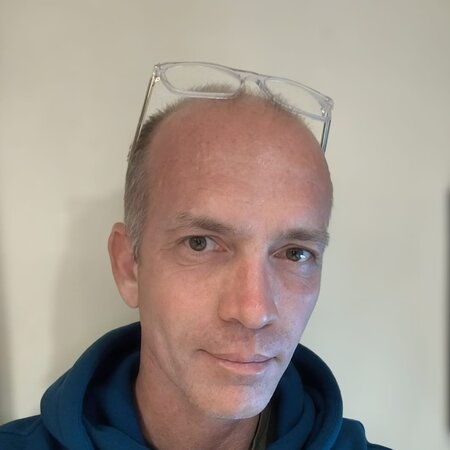
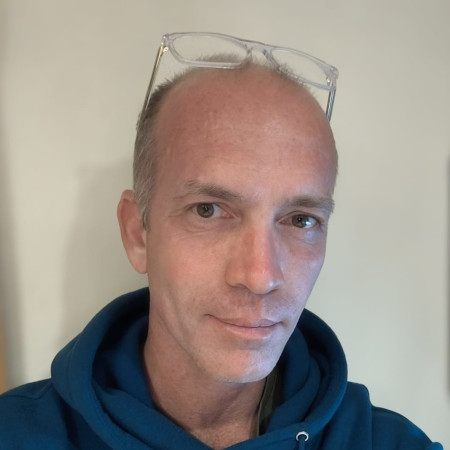
version

Changed region(s): [[0.0, 0.0622, 1.0, 1.0]]

diff --git a/docs/index.html b/docs/index.html
@@ -47,27 +47,31 @@
     <main>
       <section class="section">
         <h2 class="section__title">Profil</h2>
-        <p class="lead">Responsable IT et tech lead full-stack, près de 20 ans d'expérience en développement web.</p>
-        <p>Je pilote l'informatique d'une PME tout en restant très impliqué dans le développement&nbsp;: organisation de l'équipe, choix d'architecture, infrastructure et code. Mon rôle consiste à relier les enjeux métier, techniques et opérationnels, et à mener les sujets de la conception à la mise en production.</p>
-        <p>Formé au multimédia, j'ai évolué du développement web en ESN au lead technique chez Ricardo.ch, puis à la responsabilité de l'informatique chez Traveljuice, en élargissant mon périmètre à l'architecture, à l'infrastructure, à la dataviz et à l'IA. En parallèle, je mène des projets personnels&nbsp;: développement de plateformes web, génération procédurale, création d'entreprise.</p>
+        <p class="lead">Près de 20 ans de développement web, de la conception à la mise en production.</p>
+        <p>Formé au multimédia, j'ai évolué du développement en ESN au lead technique chez Ricardo.ch, puis à la responsabilité de l'informatique chez Traveljuice, en élargissant mon périmètre à l'architecture, à l'infrastructure, à la dataviz et à l'IA. J'y encadre l'équipe et en assure le leadership technique, tout en restant très impliqué dans le développement. Mon rôle consiste à relier les enjeux métier, techniques et opérationnels.</p>
+        <p>Généraliste avec une expertise front-end, je m'intéresse à tous les aspects du développement logiciel. En parallèle, je mène des projets personnels&nbsp;: développement de plateformes web, génération procédurale, création d'entreprise.</p>
       </section>
 
       <section class="section">
         <h2 class="section__title">Compétences</h2>
         <h3 class="subhead">Savoir-faire</h3>
         <dl class="skills">
-          <dt>Pilotage</dt><dd>Management d'équipe, gestion de projets, organisation agile (Scrum), coordination de freelances et prestataires</dd>
-          <dt>Architecture</dt><dd>Conception logicielle, choix techniques, migration et exploitation d'infrastructure</dd>
-          <dt>Web</dt><dd>Performance, SEO, tracking, conformité RGPD</dd>
+          <dt>Management</dt><dd>Management hiérarchique (recrutement, entretiens), gestion de projets, organisation agile (Scrum), coordination de freelances et prestataires</dd>
+          <dt>Leadership technique</dt><dd>Architecture logicielle, choix techniques, accompagnement technique de l'équipe</dd>
+          <dt>Exploitation</dt><dd>Pilotage de migration d'infrastructure, déploiement, CI/CD, monitoring</dd>
+          <dt>Web</dt><dd>Performance, SEO, conformité RGPD</dd>
           <dt>IA</dt><dd>Génération de code, gestion de l'infrastructure</dd>
         </dl>
         <h3 class="subhead">Technologies</h3>
+        <p class="skills__note">En gras&nbsp;: stack de mon poste actuel.</p>
         <dl class="skills">
-          <dt>Front-end</dt><dd>Angular · React · Next.js · Redux · TypeScript</dd>
-          <dt>Back-end</dt><dd>Node.js · NestJS · GraphQL · Python</dd>
-          <dt>Données</dt><dd>MySQL · PostgreSQL · BigQuery · Looker Studio · GTM · Google Analytics</dd>
-          <dt>Infra &amp; DevOps</dt><dd>Docker · Kubernetes · Docker Swarm · Scaleway · OVH · Cloudflare · Jenkins · CI/CD · monitoring</dd>
-          <dt>3D</dt><dd>Blender (API Python) · génération procédurale · impression 3D</dd>
+          <dt>Front-end (expertise)</dt><dd><strong>Angular</strong> · <strong>TypeScript</strong> · React · Redux · Next.js</dd>
+          <dt>Back-end &amp; API</dt><dd><strong>Node.js</strong> · <strong>NestJS</strong> · <strong>GraphQL</strong> · <strong>Python</strong></dd>
+          <dt>Bases de données</dt><dd><strong>MySQL</strong> · PostgreSQL</dd>
+          <dt>Data &amp; dataviz</dt><dd><strong>BigQuery</strong> · <strong>Looker Studio</strong></dd>
+          <dt>Analytics &amp; mesure d'audience</dt><dd><strong>Google Analytics</strong> · <strong>Google Tag Manager</strong></dd>
+          <dt>Infra &amp; DevOps</dt><dd><strong>Docker</strong> · <strong>Kubernetes</strong> · <strong>Scaleway</strong> · <strong>Jenkins</strong> · Cloudflare · Docker Swarm · OVH</dd>
+          <dt>3D</dt><dd>Blender (API Python) · impression 3D</dd>
           <dt>Historique</dt><dd>.NET C# MVC · SQL Server · Java (JSP, GWT) · PHP · AngularJS · jQuery · Flash</dd>
         </dl>
         <h3 class="subhead">Langues</h3>
@@ -84,11 +88,12 @@
             <p class="entry__date">Depuis 2018</p>
             <h3 class="entry__title">Responsable IT &amp; Tech lead <span class="entry__org">@ Traveljuice</span></h3>
             <ul class="points">
-              <li><strong>Pilotage</strong> — Direction d'une équipe de 5 personnes, gestion de projets, organisation des sprints et coordination des freelances et prestataires.</li>
-              <li><strong>Architecture</strong> — Mise en place d'une nouvelle architecture logicielle. En 2025, pilotage de la migration de 3 serveurs managés OVH sous Docker Swarm vers Kubernetes chez Scaleway.</li>
-              <li><strong>Développement</strong> — Refonte de la plateforme <a href="https://www.aeroports-voyages.fr">www.aeroports-voyages.fr</a>, des modules de réservation et des back-ends / back-offices associés. Participation toujours très active aux développements.</li>
-              <li><strong>Exploitation &amp; données</strong> — Déploiement, monitoring, tracking et analytics, SEO et RGPD.</li>
-              <li><strong>IA</strong> — Outils d'IA pour la génération de code et la gestion de l'infrastructure.</li>
+              <li><strong>Management</strong> — Responsable hiérarchique d'une équipe interne d'environ 5 personnes (recrutement, entretiens)&nbsp;; gestion de projets, organisation des sprints, coordination des freelances et prestataires.</li>
+              <li><strong>Leadership technique</strong> — Mise en place d'une nouvelle architecture logicielle.</li>
+              <li><strong>Kubernetes</strong> — Pilotage en 2025 de la migration de 3 serveurs managés OVH sous Docker Swarm vers un cluster Kubernetes chez Scaleway&nbsp;: coordination du prestataire chargé de la mise en œuvre et accompagnement de l'équipe. Depuis, mise en place des nouveaux projets sur le cluster (configuration, déploiements) et suivi du monitoring.</li>
+              <li><strong>Produit</strong> — Refonte de la plateforme <a href="https://www.aeroports-voyages.fr">www.aeroports-voyages.fr</a>, des modules de réservation et des back-ends / back-offices associés, avec une participation toujours très active au code.</li>
+              <li><strong>Data &amp; web</strong> — Tracking (Google Analytics, GTM) et dataviz (BigQuery, Looker Studio)&nbsp;; SEO et RGPD.</li>
+              <li><strong>IA</strong> — Usage de l'IA pour la génération de code et la gestion de l'infrastructure.</li>
             </ul>
             <ul class="tags">
               <li>Angular</li><li>NestJS</li><li>GraphQL</li><li>TypeScript</li><li>Python</li><li>MySQL</li><li>Docker</li><li>Kubernetes</li><li>Scaleway</li><li>BigQuery</li>
@@ -99,10 +104,10 @@
             <p class="entry__date">2013 – 2018</p>
             <h3 class="entry__title">Senior full-stack developer <span class="entry__org">@ Ricardo.ch</span></h3>
             <ul class="points">
-              <li>Évolution du front-end vers le full-stack.</li>
               <li>Tech lead de l'équipe Auto&nbsp;: site auto.ricardo.ch, en React avec rendu serveur.</li>
-              <li>Introduction de React, Redux, Webpack et Firebase dans l'entreprise&nbsp;; création de projets à partir de zéro.</li>
-              <li>Amélioration des architectures existantes, composants partagés entre équipes, performances du site.</li>
+              <li>Introduction de React, Redux, Webpack et Firebase dans l'entreprise&nbsp;; React a été poussé pour ses qualités techniques, mais aussi parce qu'il facilitait alors le recrutement de développeurs.</li>
+              <li>Création de projets à partir de zéro et de composants partagés entre équipes&nbsp;; amélioration des architectures existantes et des performances du site.</li>
+              <li>Évolution du front-end vers le full-stack.</li>
             </ul>
             <ul class="tags">
               <li>React (SSR)</li><li>Redux</li><li>.NET C# MVC</li><li>SQL Server</li>
@@ -112,7 +117,7 @@
           <li class="entry">
             <p class="entry__date">2011 – 2013</p>
             <h3 class="entry__title">Web developer <span class="entry__org">@ Orange Portal (Atos)</span></h3>
-            <p>Résolution des bugs front-end complexes du portail Orange&nbsp;; architecture et développement du nouveau chat WebRTC.</p>
+            <p>Prise en charge des bugs front-end complexes que les équipes du portail Orange n'avaient pas résolus&nbsp;; architecture et développement du nouveau chat WebRTC.</p>
             <ul class="tags">
               <li>AngularJS</li><li>JavaScript</li><li>HTML5</li><li>CSS</li><li>XMPP</li><li>PHP</li>
             </ul>
@@ -149,28 +154,28 @@
           <li class="entry">
             <p class="entry__date">2026</p>
             <h3 class="entry__title">Plateforme pour un club de passionnés d'automobile</h3>
-            <p>Rebond du projet d'immobilier participatif&nbsp;: j'assure le développement de la plateforme, de l'application à l'infrastructure. Elle propose aux membres du club investissement, rente, location et événements.</p>
+            <p>Rebond d'un projet d'immobilier participatif&nbsp;: j'assure le développement de la plateforme d'un club de passionnés d'automobile, ainsi que la configuration de son déploiement et de son hébergement. Elle propose à ses membres investissement, rente, location et événements.</p>
             <ul class="tags"><li>Angular</li><li>NestJS</li><li>PostgreSQL</li><li>Docker</li><li>Scaleway</li><li>Cloudflare</li><li>CI/CD</li></ul>
           </li>
           <li class="entry">
             <p class="entry__date">2024 – 2026</p>
-            <h3 class="entry__title">Génération procédurale, impression 3D &amp; Atelier de la route d'or</h3>
-            <p>Je développe depuis plusieurs années des add-ons Blender en Python qui génèrent des modèles 3D&nbsp;: jeux de société et objets artistiques, fabriqués ensuite sur mes imprimantes 3D. L'IA a nettement accéléré ce travail.</p>
+            <h3 class="entry__title">Add-ons Blender, génération procédurale &amp; Atelier de la route d'or</h3>
+            <p>Depuis plusieurs années, je développe en Python des add-ons Blender qui génèrent des modèles 3D de façon procédurale&nbsp;: jeux de société et objets artistiques, fabriqués ensuite sur mes imprimantes 3D. L'un d'eux, un <a href="https://github.com/joris-calvat/blender-add-on_dice-maker">générateur de dés à partir de fichiers SVG</a>, est publié en open source. L'IA a nettement accéléré ce travail.</p>
             <p>Mes modèles publiés sur <a href="https://www.printables.com/@atelierdelaroutedor/models">Printables</a> cumulent plus de 6 000 téléchargements, dont Spiral cable wrap (+3 000) et Halloween Spider Legs (+2 000).</p>
-            <p>En 2026, nous avons créé avec ma femme l'<a href="https://www.atelierdelaroutedor.fr/fr">Atelier de la route d'or</a> pour commercialiser une partie de ces créations, dont mon premier jeu de société, <a href="https://www.bee-the-boss.com/">Bee The Boss</a>, lancé et vendu à quelques exemplaires. Une activité menée avant tout par passion.</p>
+            <p>En 2026, nous avons créé avec ma femme l'<a href="https://www.atelierdelaroutedor.fr/fr">Atelier de la route d'or</a>, une petite entreprise qui commercialise une partie de ces créations, dont mon premier jeu de société, <a href="https://www.bee-the-boss.com/">Bee The Boss</a>&nbsp;: conception du jeu, site web et premières ventes.</p>
             <ul class="tags"><li>Python</li><li>API Blender</li><li>Génération procédurale</li><li>Impression 3D</li><li>IA</li><li>Création d'entreprise</li></ul>
+          </li>
+          <li class="entry">
+            <p class="entry__date">2023 – 2025</p>
+            <h3 class="entry__title">Plateforme d'immobilier participatif</h3>
+            <p>Investisseur et contributeur front-end, sur mon temps libre, d'une plateforme de financement participatif immobilier basée sur la blockchain. Projet arrêté à la suite d'une nouvelle réglementation, qui a rendu ce secteur très encadré et difficile d'accès.</p>
+            <ul class="tags"><li>React</li><li>Next.js</li><li>NestJS</li></ul>
           </li>
           <li class="entry">
             <p class="entry__date">2022</p>
             <h3 class="entry__title">Horodatage de pages web sur blockchain</h3>
             <p>Application qui prouve l'état d'une page web à un instant donné&nbsp;: capture d'écran, signature stockée dans la blockchain IOTA, puis vérification par le processus inverse.</p>
             <ul class="tags"><li>NestJS</li><li>Angular</li><li>Blockchain IOTA</li></ul>
-          </li>
-          <li class="entry">
-            <p class="entry__date">2023 – 2025</p>
-            <h3 class="entry__title">Plateforme d'immobilier participatif</h3>
-            <p>Investisseur et contributeur front-end, sur mon temps libre, d'une plateforme de financement participatif immobilier basée sur la blockchain. Projet arrêté suite à l'arrivée d'une nouvelle réglementation, qui a rendu ce secteur très encadré et difficile d'accès.</p>
-            <ul class="tags"><li>React</li><li>Next.js</li><li>NestJS</li></ul>
           </li>
           <li class="entry">
             <p class="entry__date">Et bien d'autres projets…</p>

diff --git a/docs/style.css b/docs/style.css
@@ -284,7 +284,7 @@ a:hover {
 
 .skills {
   display: grid;
-  grid-template-columns: 140px 1fr;
+  grid-template-columns: 180px 1fr;
   gap: 6px 20px;
   margin: 0;
 }
@@ -295,6 +295,17 @@ a:hover {
 
 .skills dd {
   margin: 0;
+  color: var(--muted);
+}
+
+.skills dd strong {
+  color: var(--ink);
+}
+
+.skills__note {
+  margin: -4px 0 10px;
+  font-size: 0.85rem;
+  font-style: italic;
   color: var(--muted);
 }
 
@@ -469,6 +480,7 @@ a:hover {
   }
 
   .entry,
+  .skills,
   .compact li {
     break-inside: avoid;
   }
